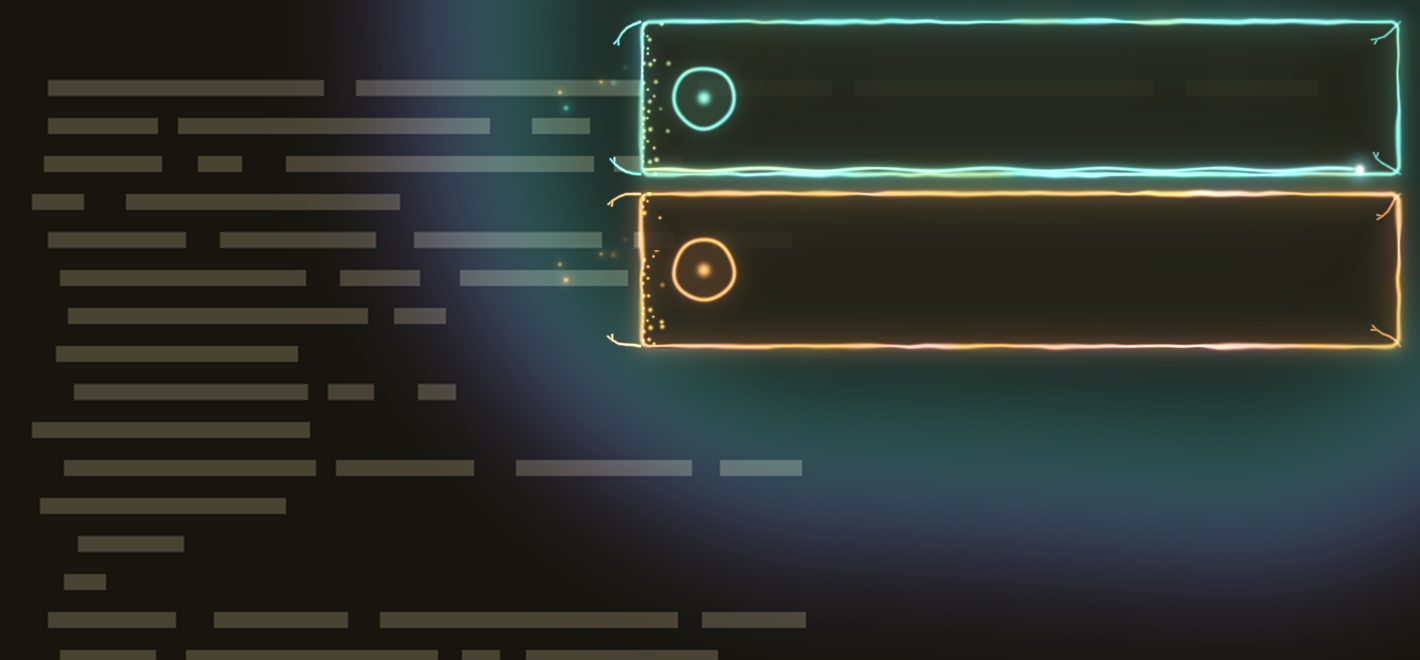
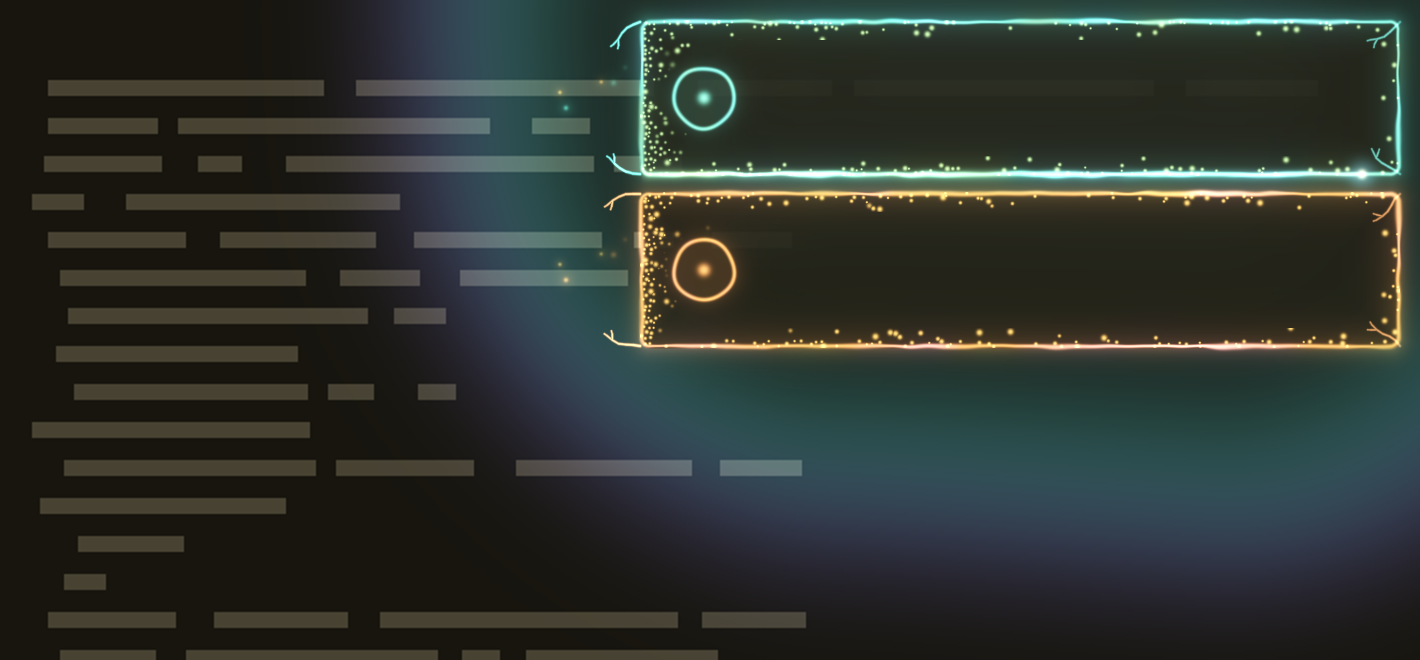
Growth: the countdown lies on the border, and far more lichen
After live testing: the countdown ran 3 px above the bottom border and read as a second line. It is now the border
itself, lit: the same distance field and sway as the outline, thicker and brighter where there is time left, its
thickness undulating, ending in a bud. The lichen is 3 to 7 times denser: about 30 px deep on the left, hugging the top
and bottom borders, dots of varying size, creeping in as the toast grows. The alignment test now compares centroids
against a border-only render (the first version used the brightest row and missed both a 3 px offset and a missing sway).

diff --git a/AGENTS.md b/AGENTS.md
@@ -64,7 +64,7 @@ changes nothing.
 bash test/tools-test.sh          # import-upstream and check-upstream, against a scratch Omarchy (47 checks)
 node test/logic-test.js          # NotificationLogic.js (35 checks)
 bash test/motion-test.sh         # components/SlotMotion.qml, offscreen with the real Qt Quick runtime (22 checks)
-bash test/growth-test.sh         # shaders/toastgrowth.frag through the harness (32 checks)
+bash test/growth-test.sh         # shaders/toastgrowth.frag through the harness (44 checks)
 bash test/service-probe.sh       # the REAL Service.qml in an offscreen Quickshell (26 checks, ~30 s): the theme gate on,
                                  # off and switched live, motion_slowdown, the setting parser. Only the layer-shell
                                  # window type is swapped for a plain one in a copy; everything else is as shipped.
@@ -253,11 +253,16 @@ instead of `toastrim.frag`; same overlay, same added-light output, same uniforms
 set** (the blend's `seed` and `growth` are unused) so `ToastRim`'s ShaderEffect feeds either; `shader-test.sh` and
 `growth-test.sh` both check that. What the design does and why (the mock-up's wavy outline and ragged strip read as glitches, so
 the outline stays straight and is alive instead; lichen is jittered dots; veins are curves with branches that cannot reach the
-toast below) is in `docs/design/README.md`. Verified: `test/growth-test.sh` (32 checks; 13 deliberate breaks: 12 caught (one only after adding a check on the ring itself), the
-last, removing the veins' distance early-out, is equivalent since no vein is longer than it); `test/service-probe.sh` (86: the
+toast below) is in `docs/design/README.md`. Verified: `test/growth-test.sh` (44 checks; every deliberate break caught but one equivalent: removing the veins' distance early-out, since no vein is longer than it); `test/service-probe.sh` (86: the
 parser and that `look` reaches the rim). **Not verified, needs the user** (checklist section G): how it looks next to the
 blend. The preview needs numpy and pillow, which this sandbox lacks: `python3 -m venv $TMPDIR/v && $TMPDIR/v/bin/pip install numpy pillow`
 works (the network is open to PyPI).
+**After the user's live test (2026-10-31, recording in ~/Videos):** the user liked it, asked for the countdown to lie *exactly on* the bottom
+border (it ran 3 px above and read as two lines; now it is the rim's own distance field plus sway, lit and undulating in thickness,
+so it cannot drift off the border) and for a lot more lichen (now deep on the left, along the top and bottom, creeping in with
+`growth`). Two test lessons: the alignment check first used the brightest row, which let both a 3 px offset and a missing sway
+through (the border outshines the line); it now compares centroids column by column, against a growth-0 render where the border is
+alone. And dots larger than the 3x3 cell search are cut flat, which only showed in a zoomed preview: look at previews zoomed.
 
 ## Conventions
 

diff --git a/docs/design/README.md b/docs/design/README.md
@@ -58,12 +58,17 @@ shader behind `look=growth`, so the live comparison with the blend is one line i
 mock-up C, whose wavy outline and ragged strip read as glitches:
 - **The outline stays straight and is alive instead**: thickness and colour vary slowly along its length (colonies of moss
   and teal), its edge moves under a pixel, and a slow pulse of sap travels round it.
-- **Lichen is a scatter of tiny dots**, jittered so it is not a grid, clustered in patches on the left edge inside the card,
-  thinning inward and kept clear of the icon; not a ragged strip.
+- **Lichen is a scatter of tiny dots**, jittered so it is not a grid, of varying size, clustered in colonies: thick and
+  about 30 px deep along the left edge, thinning inward, and hugging the top and bottom borders a few px in (thicker toward the
+  left, where it came from). It creeps in as the toast arrives, nearest the edge first. Kept clear of the icon. The first
+  version was a thin patchy strip (49 to 125 lit pixels, by seed); after live testing ("increase it a lot") it is 3 to 7 times that.
 - **Veins** are fine curves with two side branches, grown from the four corners when the toast arrives (outward on the left,
   where there is free space; inward on the right, since the screen's edge is there and the toast below is under): they cannot
   run onto the next toast.
-- **The countdown is a vein** that wavers and ends in a bud; geometry as in the blend (border to border).
+- **The countdown is the bottom border itself, lit**: drawn from the same distance field and sway as the outline, so it lies
+  exactly on it and the two read as one line (the first version ran 3 px above the border, which the user saw as two lines).
+  Where there is time left the border is brighter and thicker, its thickness undulating along it like a vein; the part that has run
+  out is the plain border. It retreats from the right and ends in a bud.
 - Palettes: moss and teal; ember for critical; dark moss for low. Everything is added light, as in the blend, and the spores
   (exit burst and faint drift) are shared.
 

diff --git a/docs/runbooks/live-checklist.md b/docs/runbooks/live-checklist.md
@@ -179,11 +179,12 @@ flipping between the two with the same notifications. The design is `docs/design
 - [ ] fine **veins with side branches grow out of the four corners** when a toast arrives (over about a second and a half),
       outward to the left on the left corners, across the card on the right ones, and then stay faint; none cross onto the
       toast below
-- [ ] on the left edge, inside the card, a **scatter of tiny dots (lichen)** in patches, thinning inward and kept clear of
-      the icon; some toasts have none, which is intended
+- [ ] **lichen** (tiny dots in colonies) is thick along the left edge, about 30 px deep, and hugs the top and bottom
+      borders; it creeps in as the toast arrives, and keeps clear of the icon and of the text (say if it gets in the way of
+      reading, or if it is still not enough)
 - [ ] the icon ring is very slightly irregular (it should read as organic, not as a lumpy circle)
-- [ ] the countdown is **a vein**: it wavers a little along the bottom, still runs from border to border, retreats from
-      the right and ends in a bud
+- [ ] the countdown is **the bottom border itself, lit**: it lies exactly on the border (one line, not two), is brighter and
+      thicker where there is time left with its thickness undulating, retreats from the right and ends in a bud
 - [ ] a **critical** toast is ember (amber to rose), a **low** one a dark moss
 - [ ] two toasts do not look alike (each has its own seed), and an updated toast keeps its look
 - [ ] it does **not** read as dirt, glitches or hair on the card (say which part if it does: the veins, the lichen, the
